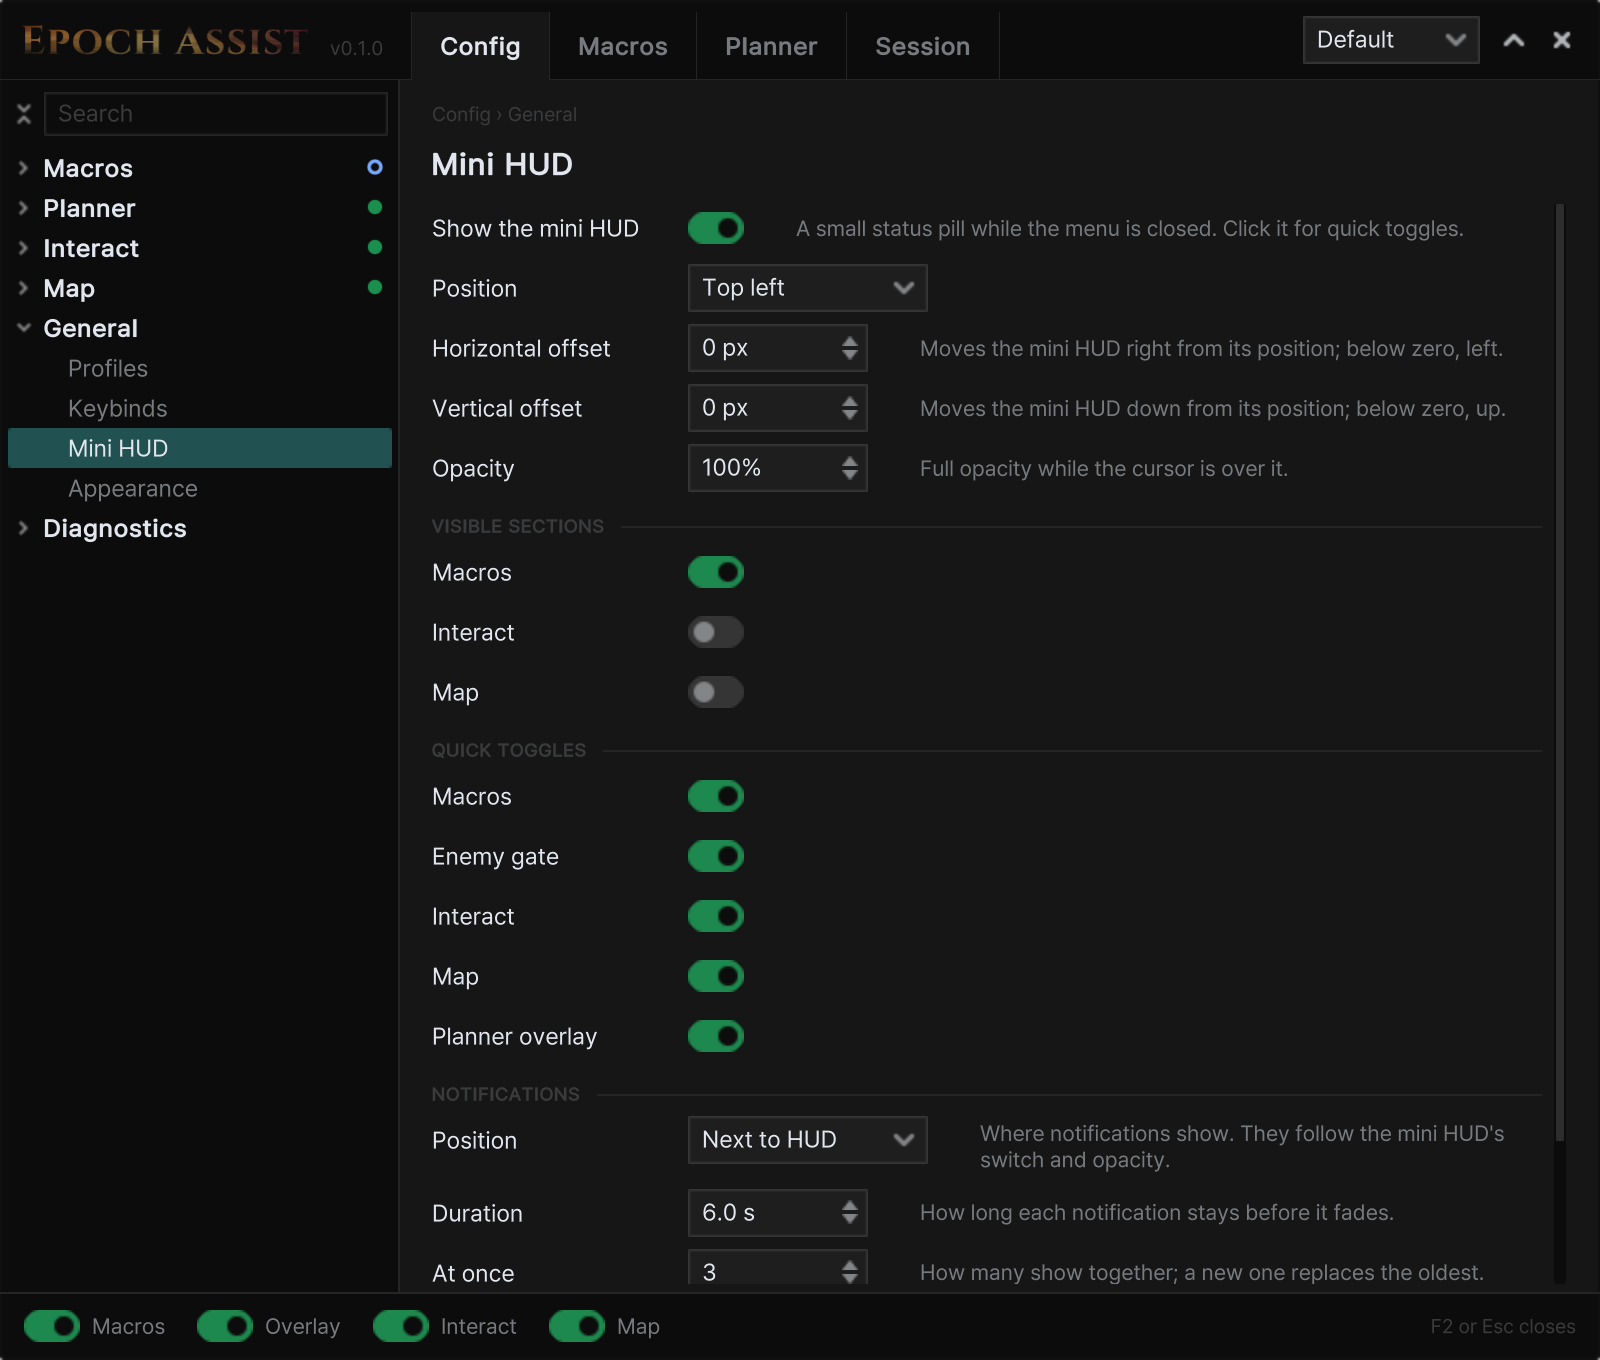
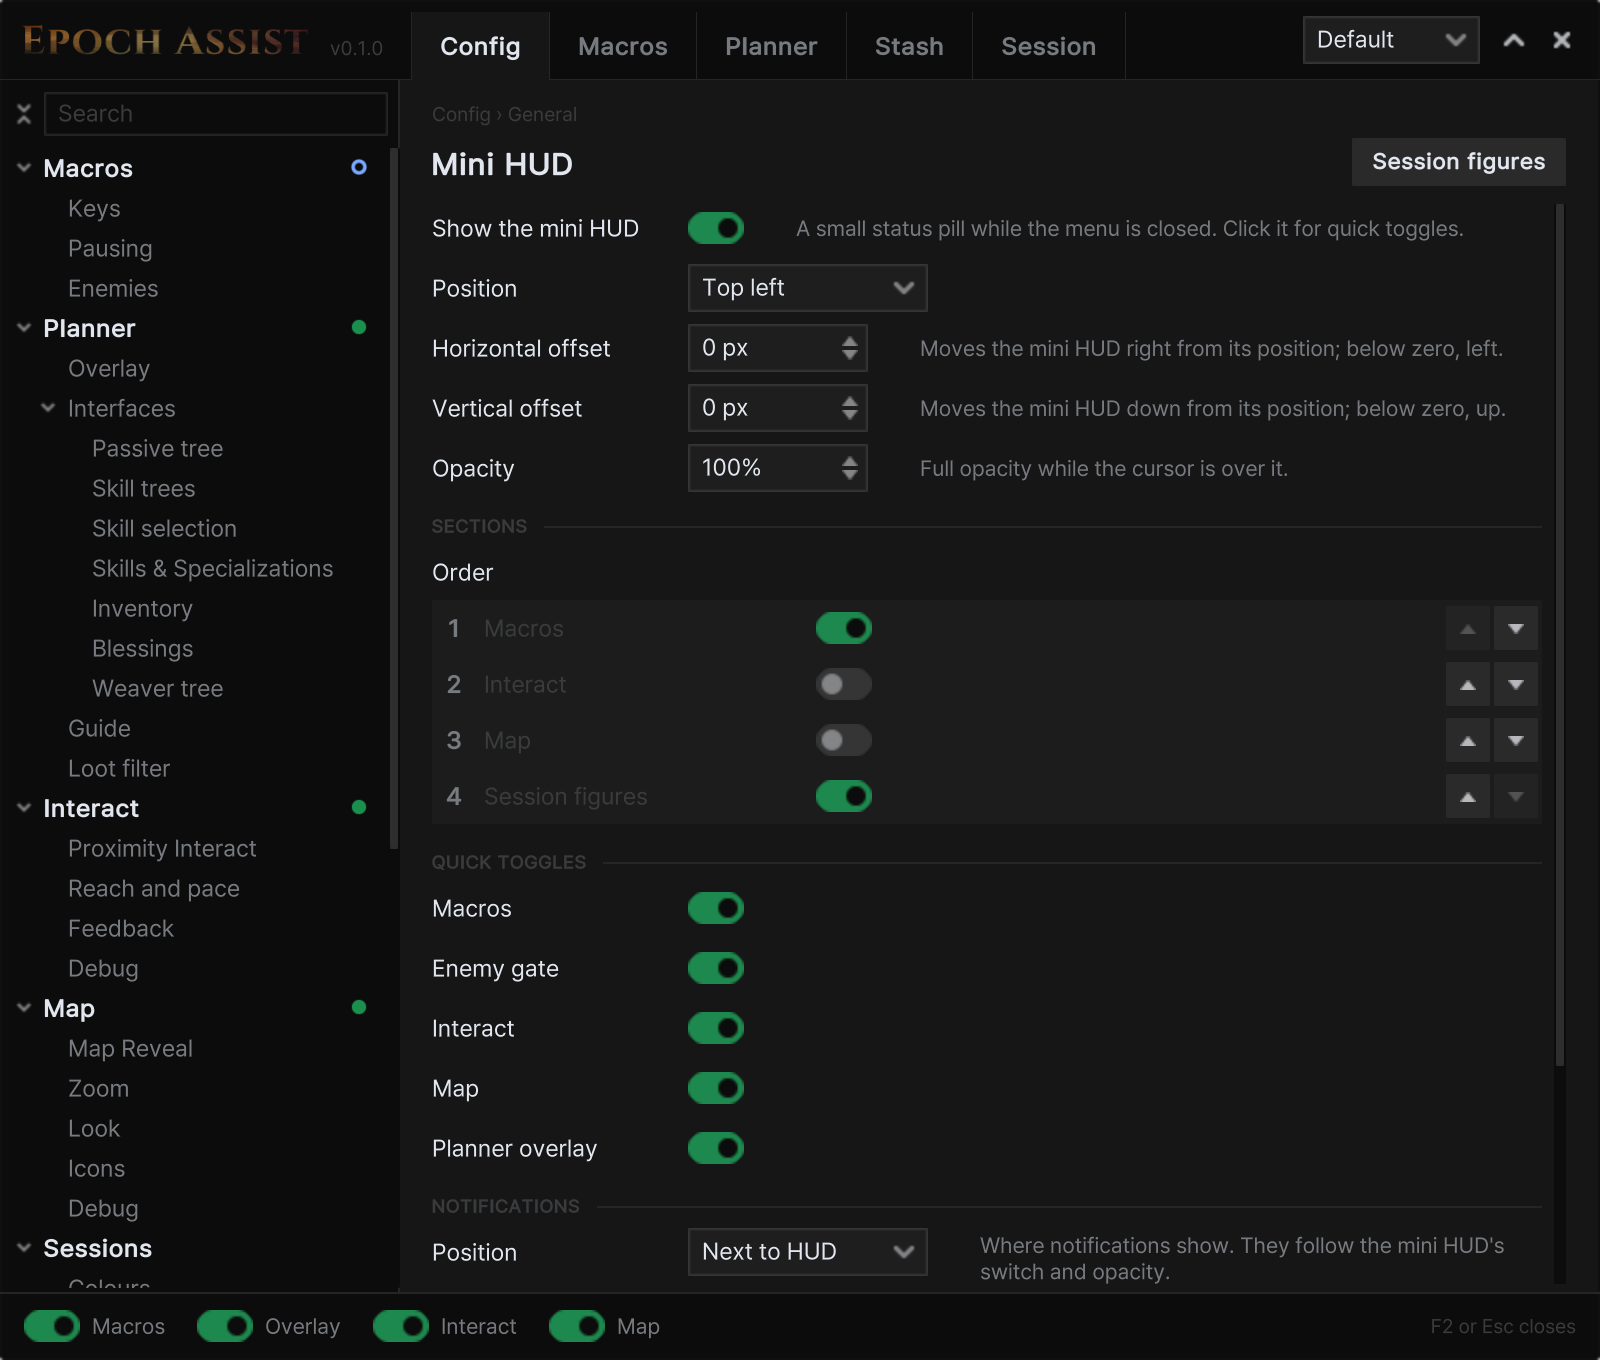
docs: README shows Stash and session HUD with their images
Stash section: presets at a gold budget, Keep or Reuse, Apply with a
summary first, items in the wrong tab, layout editor; its page shot and an
animated WebP of Apply all. Session gains Mini HUD figures and Colours
bullets, History under Config › Sessions, and three mini HUD images; the
Config Mini HUD bullet names session figures and drag order, with a
retaken settings image.

diff --git a/README.md b/README.md
@@ -58,6 +58,45 @@ Macro suite, build planner overlay, map reveal, session tracking, and much more.
   ![Planner loot filter: planner uniques and rule list](nexus/media/planner-filter-rules.png)
 
   </details>
+- **Stash**: create or use stash tab presets and easily apply them.
+  - **Preset**: Epoch Assist layout: overflow, class idols and gear, idols by size, legendaries, exalted by slot, uniques by LP, sets, altars, corrupted; build uniques from Planner library.
+  - **Budget**: slider or typed amount; most useful tabs first; merged tabs stand in for groups until budget covers them all.
+  - **Own tabs**: Keep or Reuse each folder and tab; Fit items adds tabs for items already stored.
+  - **Apply**: one step at a time, or all after summary of changes and gold; step count known up front.
+  - **Items in wrong tab**: count per tab, outlines in stash window, target tab on hover. Items never moved.
+  - **Edit**: copy preset, drag folders and tabs, rename, recolour, remove with cost shown first, undo; save stash as preset.
+  <details><summary>Screenshots</summary>
+
+  ![Stash: preset beside stash at a budget](nexus/media/stash-page.png)
+
+  ![Stash: Apply all building layout step by step](nexus/media/stash-apply.webp)
+
+  </details>
+- **Session**: dashboard of each game session statistics.
+  - **Focus**: chosen figures as tiles and charts: favour, reputation, memory amber, echoes, level, drops, XP, gold, deaths.
+  - **Live**: per-hour and last 10 minutes rates, time in and out of town, level progress, time to next level and faction rank.
+  - **Charts**: figure over session, timeline of zones, rare drops and deaths, drops by rarity, time by zone.
+  - **Tables**: factions with rank progress; echoes with clear time, gains, modifier, reward, corruption; deaths, monolith picks, loot filter drops.
+  - **Past sessions**: filter by character and range, per-hour trend, best marks, same dashboard per session; leave out of trends or delete.
+  - **New session**: ends session and starts next in place, for timed splits.
+  - **History**: kept in `UserData/EpochAssist/sessions/` within set limits, off in Config › Sessions › History; Export CSV writes two spreadsheet files. Nothing sent anywhere.
+  - **Mini HUD**: figures beside status pill as card, tiles or line in pill: session time, level, XP, gold, drops, echoes, favour, reputation, memory amber, deaths, each as total, per hour or both. Pace graphs, game colours, text and card size, labels on or off; hover for larger graph, three rates and breakdown.
+  - **Colours**: own colour per figure in Config › Sessions, game's by default; dashboard uses same.
+  <details><summary>Screenshots</summary>
+
+  ![Session: Current session with focus tiles and chart](nexus/media/session-dashboard.png)
+
+  ![Session: factions and echoes tables](nexus/media/session-tables.png)
+
+  ![Session: Past sessions with trend](nexus/media/session-past.png)
+
+  ![Session figures on the mini HUD as a card with pace graphs](nexus/media/session-hud.png)
+
+  ![Session figure hovered: larger graph, rates and breakdown](nexus/media/session-hud-detail.png)
+
+  ![Config: Sessions › Mini HUD](nexus/media/settings-session-hud.png)
+
+  </details>
 - **Map Reveal**: reveal entire map on overlay and minimap. Customize map appearance.
   - **Icons**: shrines, rune prisons, caches, tomb chests, omen windows and more, shown on zone entry.
   - **Zoom**: overlay zooms past game's widest; separate corner minimap zoom.
@@ -83,30 +122,13 @@ Macro suite, build planner overlay, map reveal, session tracking, and much more.
   ![Config: Proximity Interact](nexus/media/interact.png)
 
   </details>
-- **Session**: dashboard of each play session and every past one on Session tab, in game colours.
-  - **Focus**: chosen figures as tiles and charts: favour, reputation, memory amber, echoes, level, drops, XP, gold, deaths.
-  - **Live**: per-hour and last 10 minutes rates, time in and out of town, level progress, time to next level and faction rank.
-  - **Charts**: figure over session, timeline of zones, rare drops and deaths, drops by rarity, time by zone.
-  - **Tables**: factions with rank progress; echoes with clear time, gains, modifier, reward, corruption; deaths, monolith picks, loot filter drops.
-  - **Past sessions**: filter by character and range, per-hour trend, best marks, same dashboard per session; leave out of trends or delete.
-  - **New session**: ends session and starts next in place, for timed runs.
-  - **History**: kept in `UserData/EpochAssist/sessions/` within set limits, off under History; Export CSV writes two spreadsheet files. Nothing sent anywhere.
-  <details><summary>Screenshots</summary>
-
-  ![Session: Current session with focus tiles and chart](nexus/media/session-dashboard.png)
-
-  ![Session: factions and echoes tables](nexus/media/session-tables.png)
-
-  ![Session: Past sessions with trend](nexus/media/session-past.png)
-
-  </details>
 
 ## Config
 
 Highly configurable settings available via the Config tab. General options:
 
-- **Mini HUD**: macro state and slots while menu is closed; click for quick toggles. Notifications: own position,
-  duration, count, kinds and order.
+- **Mini HUD**: each feature's state and session figures while menu is closed, in order dragged to; click for quick
+  toggles. Notifications: own position, duration, count, kinds and order.
   <details><summary>Screenshots</summary>
 
   ![The mini HUD with its quick toggles](nexus/media/hud.png)
